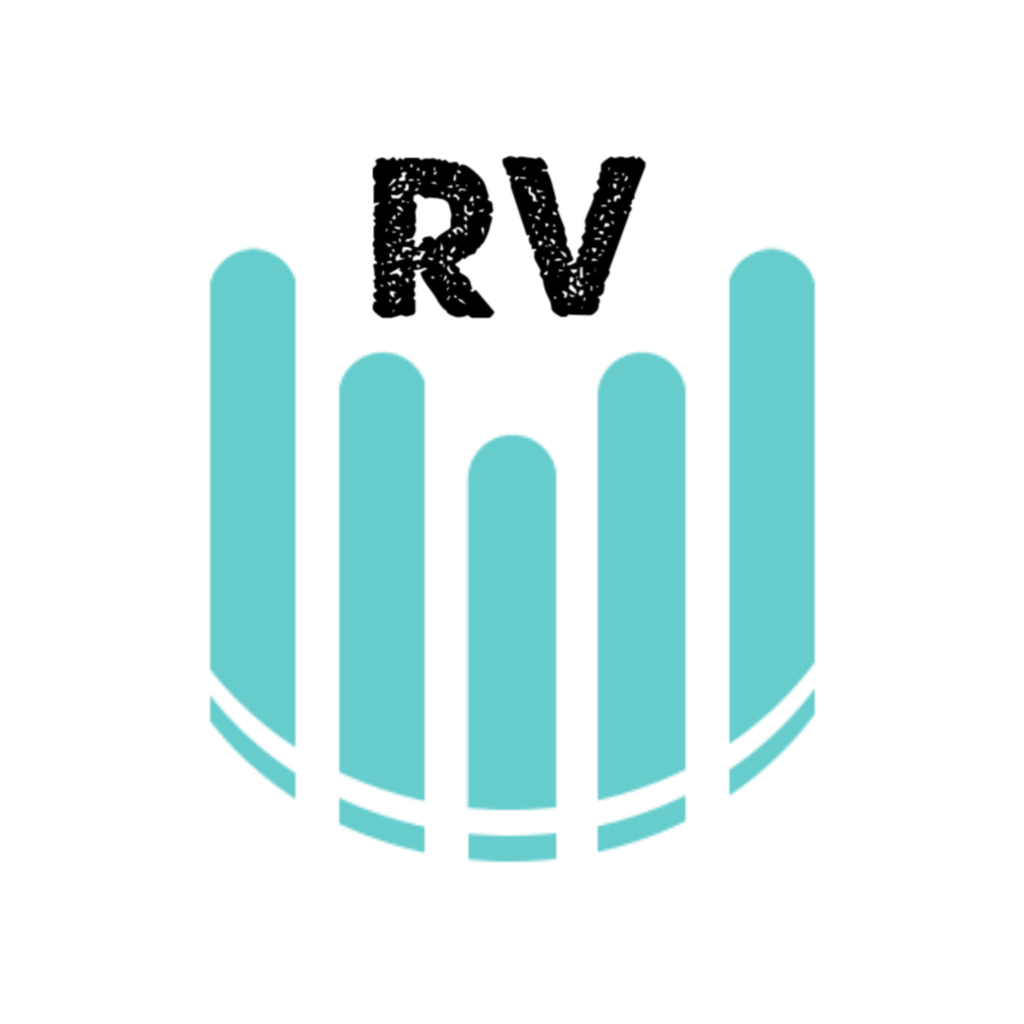
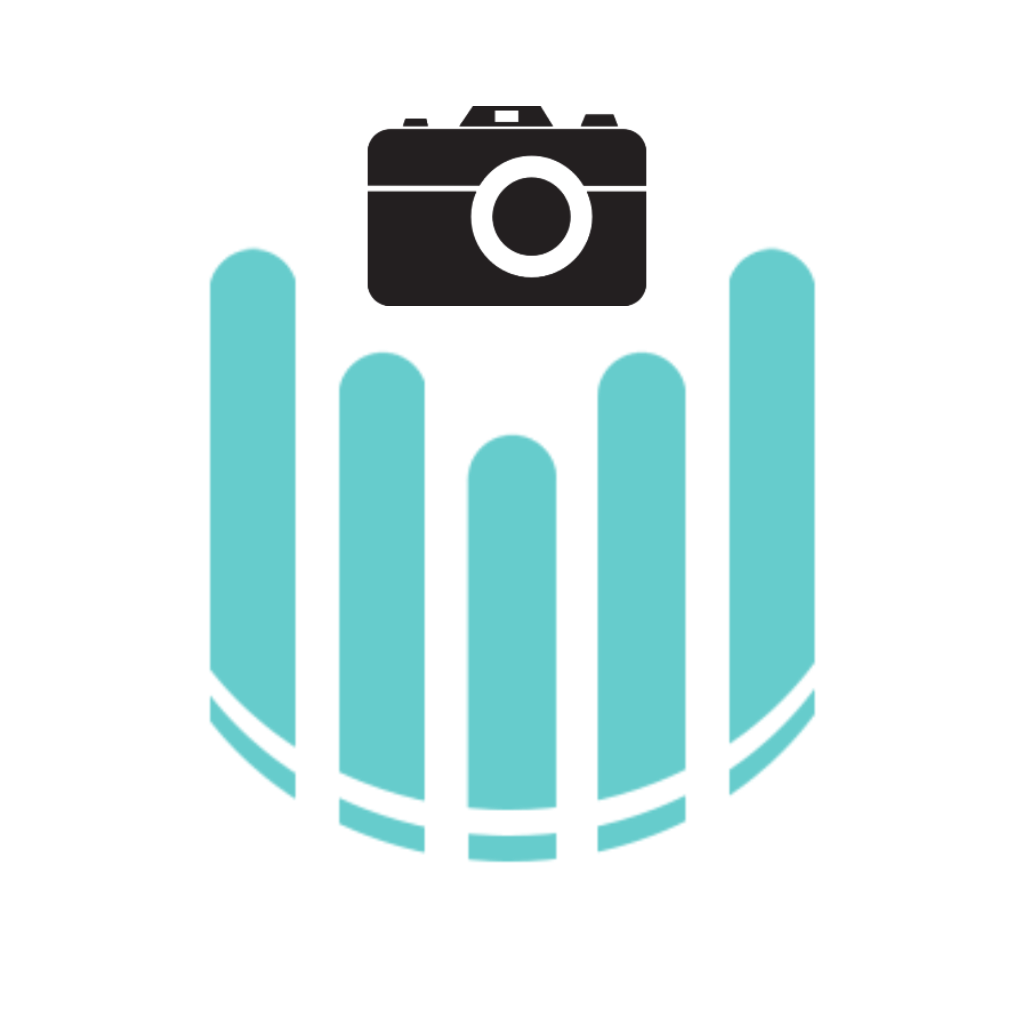
ultimos detalles de estilo

Changed region(s): [[0.3438, 0.0938, 0.6562, 0.3125]]

diff --git a/src/app/componentes/login/login.page.html b/src/app/componentes/login/login.page.html
@@ -17,7 +17,7 @@
 </ion-header>
 
 <ion-content padding>
-  <img src="assets/icon/icon.png" alt="" class="icon">
+  <img src="assets/camara.png" alt="" class="imagen-camara">
   <ion-label [hidden]='datosCorrectos' class="datos-incorrectos">Datos incorrectos</ion-label> 
 <ion-item>
   <ion-label position="floating">Correo electrónico</ion-label> 
@@ -28,13 +28,13 @@
   <ion-input type="password" [(ngModel)]="clave" name="clave"></ion-input>
 </ion-item>
 <br>
-<ion-button expand="block" (click) = "onSubmitLogin()">Entrar</ion-button>
-
 <ion-item>
   <ion-label position="stacked">Usuario</ion-label>
   <ion-select (ionChange)="onChange($event.target.value)" placeholder="Seleccione uno: ">
     <ion-select-option *ngFor="let usuario of usuarios" value={{usuario.id}}> {{usuario.nombre}} </ion-select-option>
   </ion-select>
 </ion-item>
+
+<ion-button expand="block" class="boton-entrar" (click) = "onSubmitLogin()">Entrar</ion-button>
 
 </ion-content>

diff --git a/src/app/componentes/galeria/galeria.page.ts b/src/app/componentes/galeria/galeria.page.ts
@@ -180,7 +180,7 @@ export class GaleriaPage implements OnInit {
     // tslint:disable-next-line: no-angle-bracket-type-assertion
     const ctx = ( <any> document.getElementById('fotos-feas')).getContext('2d');
     const chart = new Chart(ctx, {
-        type: 'bar',
+        type: 'line',
         data: {
           labels: this.arrayLabelsFotosFeas,
           datasets: [{

diff --git a/src/app/componentes/login/login.page.scss b/src/app/componentes/login/login.page.scss
@@ -45,6 +45,20 @@
     margin-left: 4%;
   }
 
+  .imagen-camara {
+    height: 150px;
+    width: 250px;
+    margin-top: 20%;
+    margin-left: 20%;
+    margin-bottom: 20%;
+  }
+
+  .boton-entrar {
+    margin-top: 10%;
+    margin-bottom: 5%;
+    height: 65px;
+  }
+
   @keyframes pulse {
     0% {
       opacity:0;
